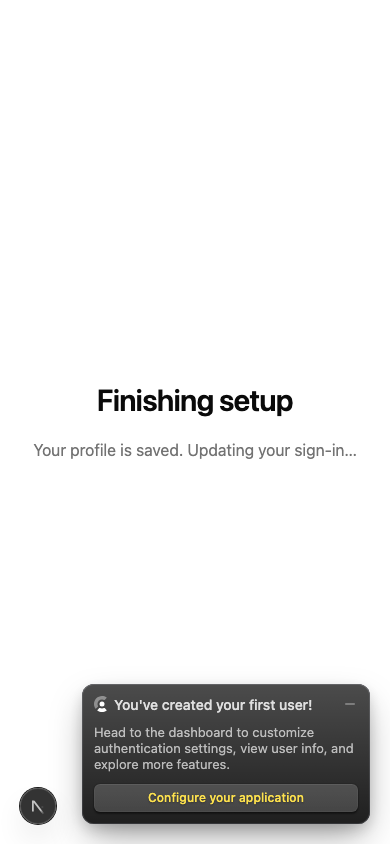
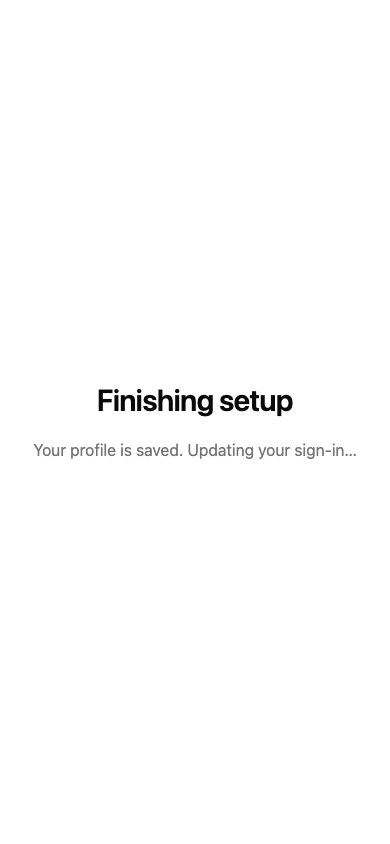
test(lane6): record recovery and rating acceptance evidence

Changed region(s): [[0.1846, 0.8009, 0.9846, 1.0], [0.0308, 0.9242, 0.1538, 0.9858]]

diff --git a/tests/e2e/journeys.spec.ts b/tests/e2e/journeys.spec.ts
@@ -37,6 +37,8 @@ import {
 
 const SEEDS = Number(process.env.J_SEEDS ?? 10);
 const ONLY = process.env.J_CASES?.split(",");
+// Screenshot-only: development overlays otherwise cover the phone's status text.
+const CAPTURE_STYLE = '#clerk-components:has(button[aria-label="Keyless prompt"]), nextjs-portal { visibility: hidden !important; }';
 
 /** Small deterministic PRNG so a seed replays the same order and waits. */
 function rng(seed: number) {
@@ -187,7 +189,8 @@ test("a finished user without the configured session claim settles on recovery w
       for (const [width, height] of [[1440, 900], [390, 844]]) {
         await page.setViewportSize({ width, height });
         expect(await page.evaluate(() => document.documentElement.scrollWidth <= innerWidth)).toBe(true);
-        await page.screenshot({ path: `docs/lane-6/screenshots/${state}-${width}x${height}${reducedMotion === "reduce" ? "-reduced" : ""}.png` });
+        if (state === "onboarding-refreshing") await expect(page.getByRole("status")).toContainText("Updating your sign-in");
+        await page.screenshot({ style: CAPTURE_STYLE, path: `docs/lane-6/screenshots/${state}-${width}x${height}${reducedMotion === "reduce" ? "-reduced" : ""}.png` });
       }
     }
   };
@@ -201,13 +204,13 @@ test("a finished user without the configured session claim settles on recovery w
   const network = await context.newCDPSession(page);
   await network.send("Network.enable");
   // Hold the real response long enough to capture both viewport sizes.
-  await network.send("Network.emulateNetworkConditions", { offline: false, latency: 20_000, downloadThroughput: -1, uploadThroughput: -1 });
+  await network.send("Network.emulateNetworkConditions", { offline: false, latency: 5_000, downloadThroughput: -1, uploadThroughput: -1 });
   await page.getByRole("button", { name: "Try again" }).click();
   await expect(page.getByRole("status")).toContainText("Updating your sign-in");
   await captureRecovery("onboarding-refreshing");
   await network.send("Network.emulateNetworkConditions", { offline: false, latency: 0, downloadThroughput: -1, uploadThroughput: -1 });
-  await network.detach();
   await expect(page.getByRole("button", { name: "Try again" })).toBeVisible({ timeout: 30_000 });
+  await network.detach();
 });
 
 const cases: Record<string, (browser: Browser, seed: number) => Promise<void>> = {
@@ -352,6 +355,7 @@ const cases: Record<string, (browser: Browser, seed: number) => Promise<void>> =
     await expect(a.page.getByRole("radio", { name: "4 stars", exact: true })).toBeChecked();
     const keylessPrompt = a.page.getByRole("button", { name: "Keyless prompt", exact: true });
     if (await keylessPrompt.getAttribute("aria-expanded") === "true") await keylessPrompt.click();
+    await a.page.getByRole("radio", { name: "4 stars", exact: true }).focus();
 
     const capture = async (state: string) => {
       if (seed !== 0) return;
@@ -361,7 +365,7 @@ const cases: Record<string, (browser: Browser, seed: number) => Promise<void>> =
           await a.page.setViewportSize({ width, height });
           expect(await a.page.evaluate(() => document.documentElement.scrollWidth <= innerWidth)).toBe(true);
           if (state === "rating-saving") await expect(a.page.getByTestId("call-done")).toBeDisabled();
-          await a.page.screenshot({ path: `docs/lane-6/screenshots/${state}-${width}x${height}${reducedMotion === "reduce" ? "-reduced" : ""}.png` });
+          await a.page.screenshot({ style: CAPTURE_STYLE, path: `docs/lane-6/screenshots/${state}-${width}x${height}${reducedMotion === "reduce" ? "-reduced" : ""}.png` });
         }
       }
     };
@@ -378,13 +382,13 @@ const cases: Record<string, (browser: Browser, seed: number) => Promise<void>> =
     // Slow the real link to inspect pending feedback without intercepting requests.
     const network = await a.context.newCDPSession(a.page);
     await network.send("Network.enable");
-    await network.send("Network.emulateNetworkConditions", { offline: false, latency: 20_000, downloadThroughput: -1, uploadThroughput: -1 });
+    await network.send("Network.emulateNetworkConditions", { offline: false, latency: 5_000, downloadThroughput: -1, uploadThroughput: -1 });
     await a.page.getByTestId("call-done").click();
     await expect(a.page.getByTestId("call-done")).toBeDisabled();
     await capture("rating-saving");
     await network.send("Network.emulateNetworkConditions", { offline: false, latency: 0, downloadThroughput: -1, uploadThroughput: -1 });
-    await network.detach();
     await expect(a.page.locator('[data-journey-proof="queue"]')).toBeVisible({ timeout: 60_000 });
+    await network.detach();
     expect(await one('SELECT user_id, rating FROM call_ratings WHERE room_id = $1', [roomId])).toEqual({ user_id: a.userId, rating: 4 });
     expect((await roomRow(roomId))?.status).toBe("ended");
     await b.page.getByTestId("leave-call").click();

diff --git a/docs/lane-6/verification.md b/docs/lane-6/verification.md
@@ -1,0 +1,45 @@
+# Lane 6 promotion evidence
+
+For the lead reviewing PR #20. All database checks used the lane-owned `linkedup_ship` database on the shared local server. Production was untouched.
+
+## Reproduce the checks
+
+From this worktree, configure the shared server and assigned app port:
+
+```sh
+export LINKEDUP_DATABASE_NAME=linkedup_ship
+export LINKEDUP_PG_DATA_DIR='/Users/samgu/Programming Projects/fleet-leads/wt/linkedup-turn/.local/pg'
+export LINKEDUP_DEV_PORT=3206
+pnpm test:unit --silent
+pnpm exec tsc --noEmit --pretty false
+pnpm lint
+```
+
+- Unit tests: 291 passed across 33 files. Migration tests contribute eight cases covering empty and main-shaped schemas, repeated migration, resumption after the original 0005, schema mismatch rejection, and duplicate rows for the same healthy room.
+- Typecheck: passed.
+- Lint: passed with three existing `no-img-element` warnings in the landing page and one-on-one page. Changed files have no warnings.
+
+Run the browser cases against the local keyless instance:
+
+```sh
+LINKEDUP_JOURNEY_PROOF=1 ~/.long-run/bin/heavy pnpm dev:up
+LINKEDUP_JOURNEY_PROOF=1 J_SEEDS=3 J_CASES=J1,J2,J3 ~/.long-run/bin/heavy pnpm exec playwright test tests/e2e/journeys.spec.ts --project=desktop --max-failures=1
+LINKEDUP_JOURNEY_PROOF=1 J_SEEDS=3 J_CASES=J4,J5,J6 ~/.long-run/bin/heavy pnpm exec playwright test tests/e2e/journeys.spec.ts --project=desktop --max-failures=1
+LINKEDUP_JOURNEY_PROOF=1 J_SEEDS=3 J_CASES=J7,J8 ~/.long-run/bin/heavy pnpm exec playwright test tests/e2e/journeys.spec.ts --project=desktop --max-failures=1
+```
+
+J1–J8 passed all three seeds, 24 case/seed combinations, across focused runs. The missing-claim recovery test also passed. The initial broad run passed onboarding and J1–J3 before an aborted completion request in the helper stopped J4. After the helper waited for recovery, J4–J6 passed. The final J7/J8 run passed 7/7 including onboarding. These are combined coverage results, not one uninterrupted 25-test run.
+
+Production build is pending.
+
+The browser signs up synthetic users through Clerk and completes the actual onboarding wizard. Normal `/onboarding` verifies stable missing-claim recovery, an offline refresh error, and retry. Matching and calls then use the existing, development-only journey-proof routes because this unclaimed Clerk instance lacks session-token customization. J8 reads saved ratings directly from Postgres after an offline failure and retry, and completes both participants through keyboard controls. App documents and APIs are not intercepted.
+
+The screenshots in `screenshots/` show missing-claim recovery, refresh failure, refresh pending, selected rating, save failure, and save pending. Each state has 1440×900 and 390×844 captures with reduced motion enabled and disabled. Screenshot-only CSS hides Clerk and Next development overlays, which otherwise cover the phone's status text. Product content and requests are unchanged. No new motion was added.
+
+## Coverage limits
+
+- Claim-present refresh and navigation are covered by unit tests. Normal-route browser acceptance with the customized claim requires Sam's configured Clerk instance.
+- The migration fixture comes from main source, not a production dump. Production lock duration and data volume are unmeasured. Follow [the rollout steps](rollout.md) before promotion.
+- Remote-media readiness uses deterministic transport tests. Cross-network connectivity still depends on lane 2's ICE work.
+- Keyboard behavior and accessible names were checked. A human screen-reader pass was not run.
+- A mobile Lighthouse run on the development sign-in page scored 49 performance and 100 accessibility. It does not measure production or call performance.
